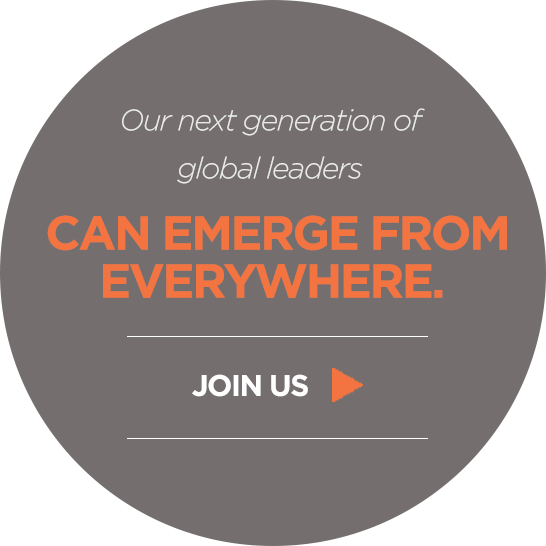
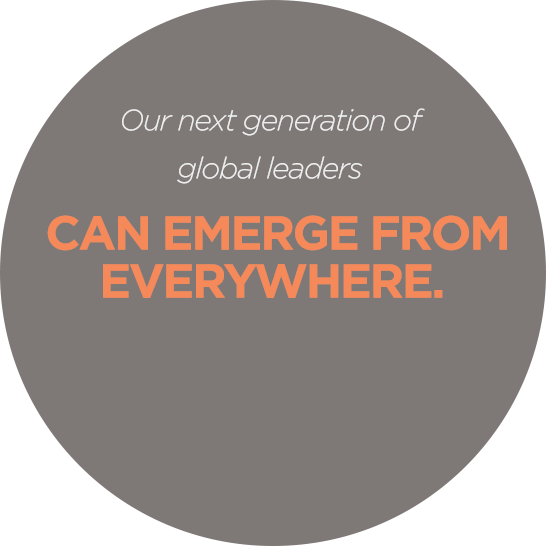
Cleaned up join us circle and join us buttons made consistent.

Changed region(s): [[0.3425, 0.685, 0.5604, 0.7473], [0.5916, 0.6538, 0.685, 0.7473]]

diff --git a/app/assets/stylesheets/public.css.scss b/app/assets/stylesheets/public.css.scss
@@ -17,6 +17,26 @@
   }
 }
 
+#join-us-button {
+  background-color: $bzorange;
+  color: $bzwhite;
+  font-weight: bold;
+  border-top-color: $primary_button_highlight;
+  border-right-color: $primary_button_highlight;
+  border-left-color: $primary_button_lowlight;
+  border-bottom-color: $primary_button_lowlight;
+
+  &:hover {
+    background-color: $primary_button_highlight;
+    color: $bzwhite;
+    font-weight: bold;
+    border-top-color: $primary_button_lowlight;
+    border-right-color: $primary_button_lowlight;
+    border-left-color: $bzorange;
+    border-bottom-color: $bzorange;
+  }
+}
+
 #sign-up-form {
   background-color: $bzorange;
 

diff --git a/app/assets/stylesheets/base/palettes/_primary.css.scss b/app/assets/stylesheets/base/palettes/_primary.css.scss
@@ -6,6 +6,8 @@ $bzblue:   #43b5e9;
 //SECONDARY PALETTE
 $bzgreen:  #abd044;
 $bzred:    #f37344;
+$primary_button_highlight: #f37440;
+$primary_button_lowlight: #b5541e;
 
 //NEUTRAL PALETTE (light to dark)
 $bzwhite:  #fff;
